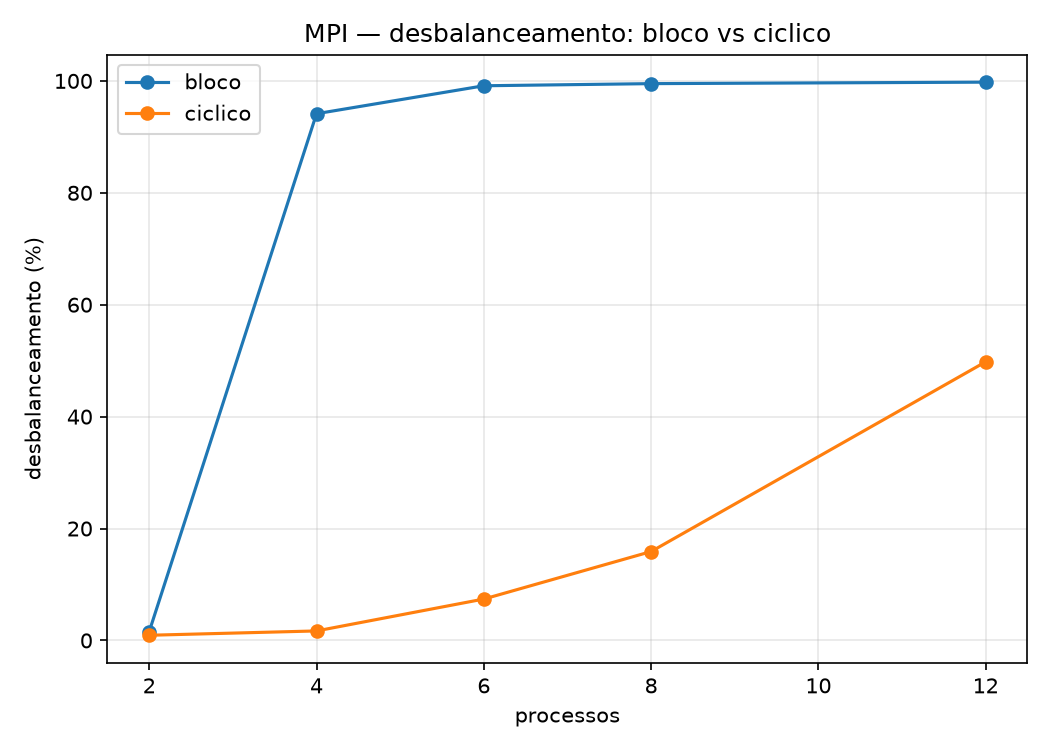
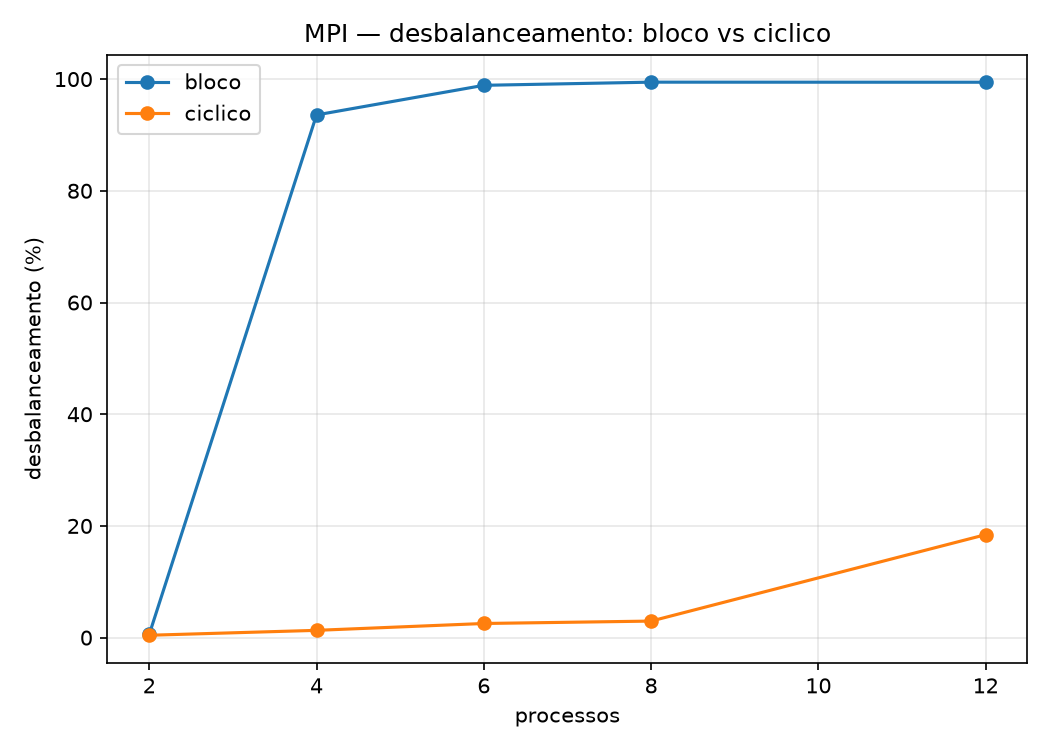
Remove binario compilado e duplicata do baseline do repositorio

diff --git a/README.md b/README.md
@@ -19,7 +19,7 @@ mpi/mandelbrot_mpi.cpp     versão de memória distribuída
 scripts/medir.py           roda os experimentos e grava dados/medicoes.csv
 scripts/graficos.py        gera os gráficos em dados/graficos/
 dados/                     medições em CSV e gráficos gerados
-docs/                      documento do Marco 1
+docs/                      relatório do Marco 2 — análise experimental
 ```
 
 ## Requisitos
@@ -77,7 +77,9 @@ python3 scripts/graficos.py
 
 `medir.py` descarta a primeira execução (aquecimento), repete cada configuração
 três vezes, usa a mediana, grava `dados/medicoes.csv` e ao final confere se todos
-os checksums batem com o do baseline para o mesmo tamanho de entrada.
+os checksums batem com o do baseline para o mesmo tamanho de entrada. O cronômetro
+está dentro dos próprios programas em C++ (`clock_gettime`, `omp_get_wtime`,
+`MPI_Wtime`); o script apenas executa os binários e consolida o CSV.
 
 ## Validação de corretude
 
@@ -90,10 +92,26 @@ O baseline define o resultado correto. Checksums de referência:
 | 1600 × 1600 | 454328600 |
 | 2200 × 2200 | 858878868 |
 
-As versões OpenMP e MPI produzem esses mesmos valores para qualquer número de
-threads ou processos, qualquer política de escalonamento e qualquer decomposição.
+As **136 execuções** registradas em `dados/medicoes.csv` reproduzem esses valores
+para qualquer número de threads ou processos, qualquer política de escalonamento,
+qualquer mecanismo de redução e qualquer decomposição.
 
-## Máquina de referência das medições
+## Resultados principais
 
-Intel Core i5-11400F (6 núcleos físicos, 12 threads lógicas), Ubuntu sobre WSL2,
-`g++ -O2` e OpenMPI.
+Máquina de referência: Intel Core i5-11400F (6 núcleos físicos, 12 threads lógicas),
+Ubuntu sobre WSL2, `g++ -O2` e OpenMPI.
+
+| Métrica | Valor |
+|---|---|
+| Fração paralelizável medida (1600²) | 0,992634 |
+| Speedup máximo por Amdahl com 12 unidades | 11,10 |
+| Melhor speedup OpenMP (1600², 12 threads) | **10,40** |
+| Melhor speedup MPI (2200², 12 processos, cíclico) | **8,66** |
+| Pior política de escalonamento (`static,0`) | 4,34 |
+| Melhor política (`dynamic,1`) | 9,92 |
+| Desbalanceamento MPI em bloco, 4 processos | 93,71 % |
+| Desbalanceamento MPI cíclico, 4 processos | 0,78 % |
+
+A discussão completa — perfilamento, comparação de políticas, tratamento da condição
+de corrida, decomposição de domínio, escalabilidade forte e fraca e o afastamento em
+relação à Lei de Amdahl — está em `docs/Marco2_Analise_Experimental.pdf`.
